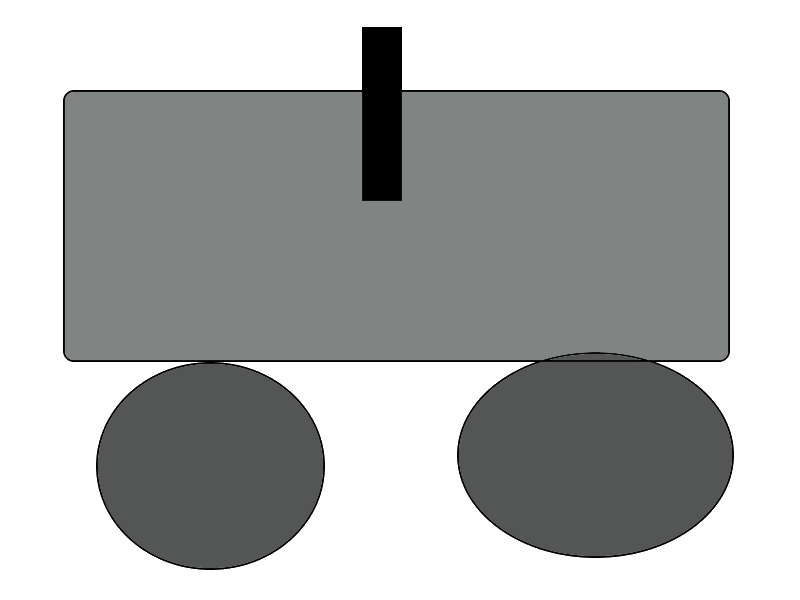
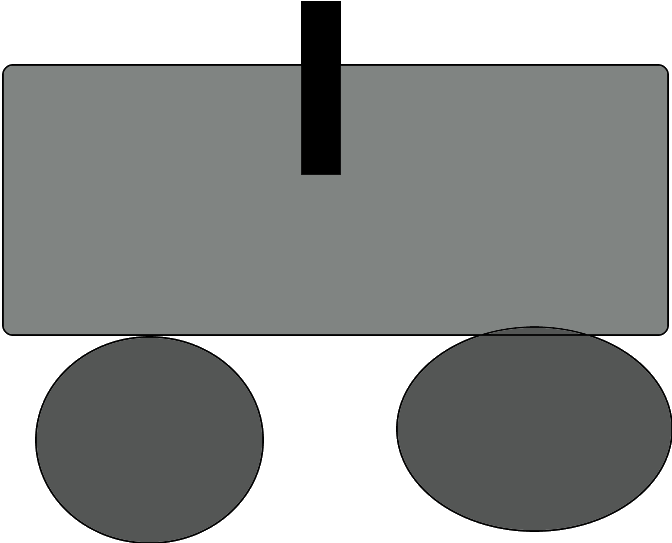
made barriers work better and made some code less hideous! still pumped about how well coding the barriers went

Changed region(s): [[0.0, 0.0, 1.0, 1.0]]

diff --git a/si.py b/si.py
@@ -37,11 +37,13 @@ ship.move(screen, 0)
 
 barriers = []
 for i in range(5):
-	tempVar = Barrier(screen, x * (5+(20*i))/100, y -200)
+	tempVar = Barrier(screen, x * (5+(20*i))/100, y - 250)
 	barriers.append(tempVar)
 	screen.blit(tempVar.image, (tempVar.x, tempVar.y))
 
 bullets = []
+bulletWidth = int(screen.get_width()/240)
+bulletHeight = int(screen.get_height()/27)
 
 pygame.display.flip() #sets up the window's visuals.
 
@@ -64,10 +66,12 @@ while(True):
 		if eachBullet.rect.bottom == 0:
 			bullets.remove(eachBullet)
 
-		boom = eachBullet.rect.collidelist(barriers)
+		boom = eachBullet.rect.collidelist(barriers) # did a bullet hit a barrier? -1 if no (see pygame.Rect docs)
 		if boom != -1:
 			barriers[boom].degrade(screen)
 			bullets.remove(eachBullet)
+			pygame.draw.rect(screen, backgroundColor, eachBullet.rect)
+			pygame.display.update(eachBullet.rect)
 			if barriers[boom].quality == 0:
 				del barriers[boom]
 
@@ -76,7 +80,7 @@ while(True):
 
 
 	if pressedKeys[pygame.K_SPACE] == 1 and bulletAvailable: #shoot!
-		bullets.append(Bullet(screen, ship.rect.centerx, ship.rect.top-20))
+		bullets.append(Bullet(screen, ship.rect.centerx, ship.rect.top-bulletHeight, bulletWidth, bulletHeight))
 		bulletAvailable = False
 		bulletClock = ticks()
 

diff --git a/Bullet.py b/Bullet.py
@@ -10,8 +10,8 @@ BulletColor = GREEN
 class Bullet():
 	
 
-	def __init__(self, screen, x, y):
-		self.rect = pygame.Rect(x, y, int(screen.get_width()/240), int(screen.get_height()/27))
+	def __init__(self, screen, x, y, w, h):
+		self.rect = pygame.Rect(x, y, w, h)
 		
 
 	def advance(self, screen):

diff --git a/Barrier.py b/Barrier.py
@@ -11,7 +11,7 @@ class Barrier():
 		self.y = y
 
 		self.w = int(screen.get_width()/10)
-		self.h = int(screen.get_height()/10)
+		self.h = int(screen.get_height()/13)
 
 		self.quality = 5 # the lower the quality, the worse for wear the wall is. at zero, the wall falls apart. 
 
